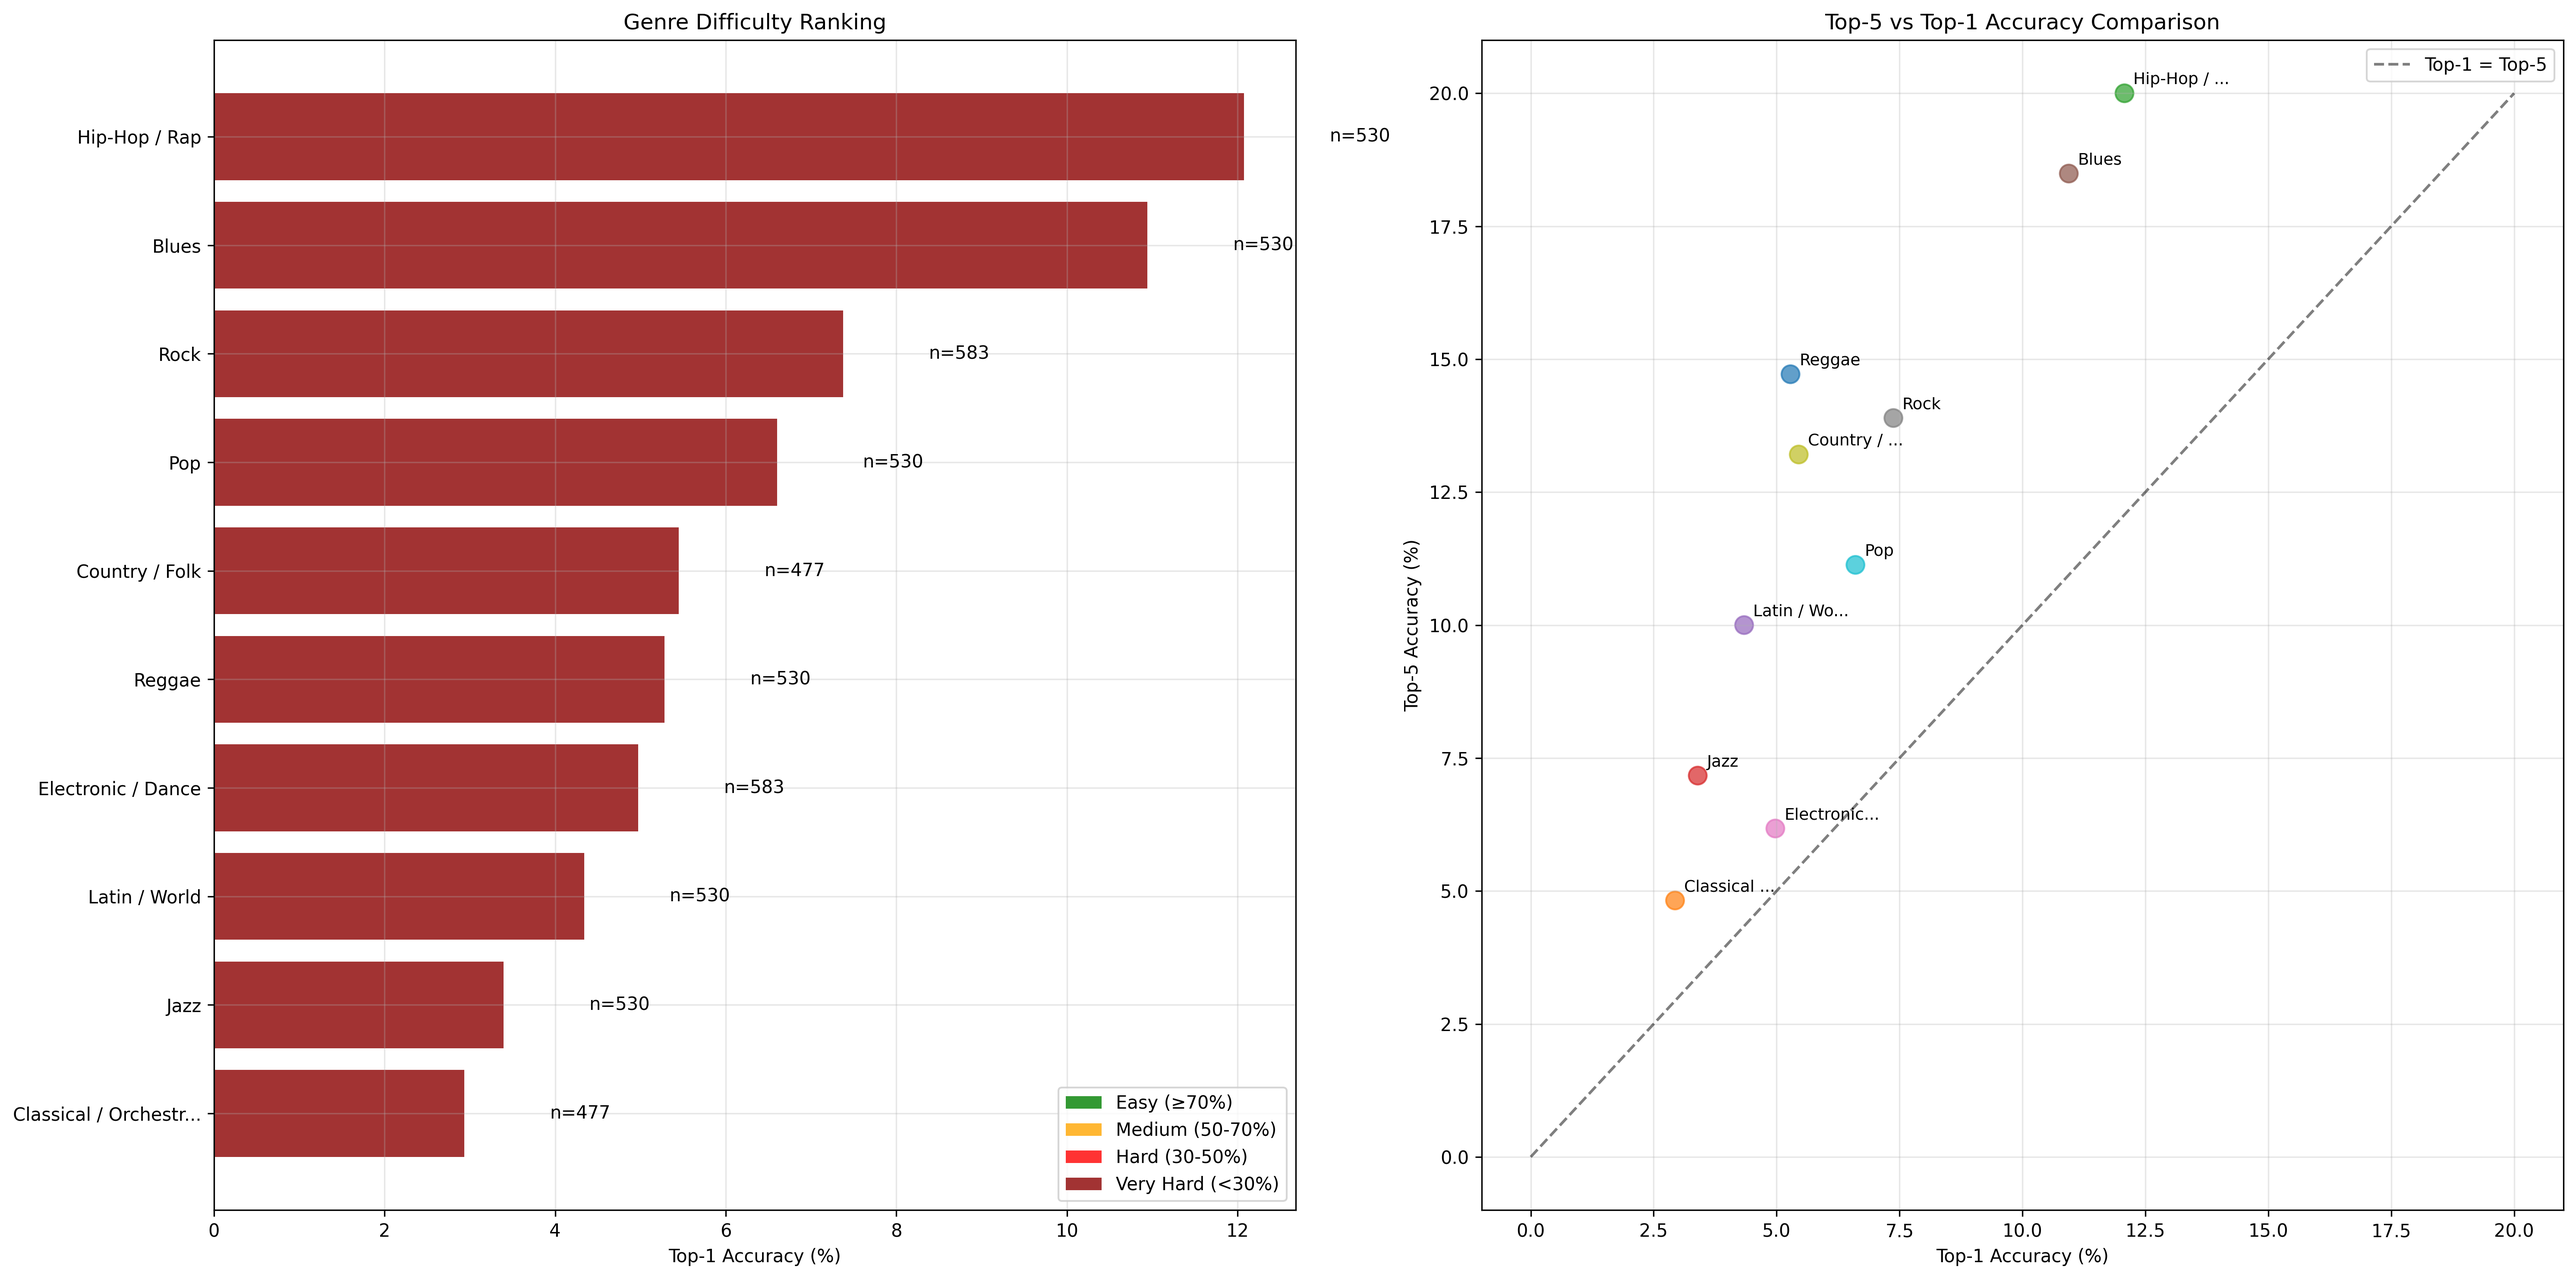
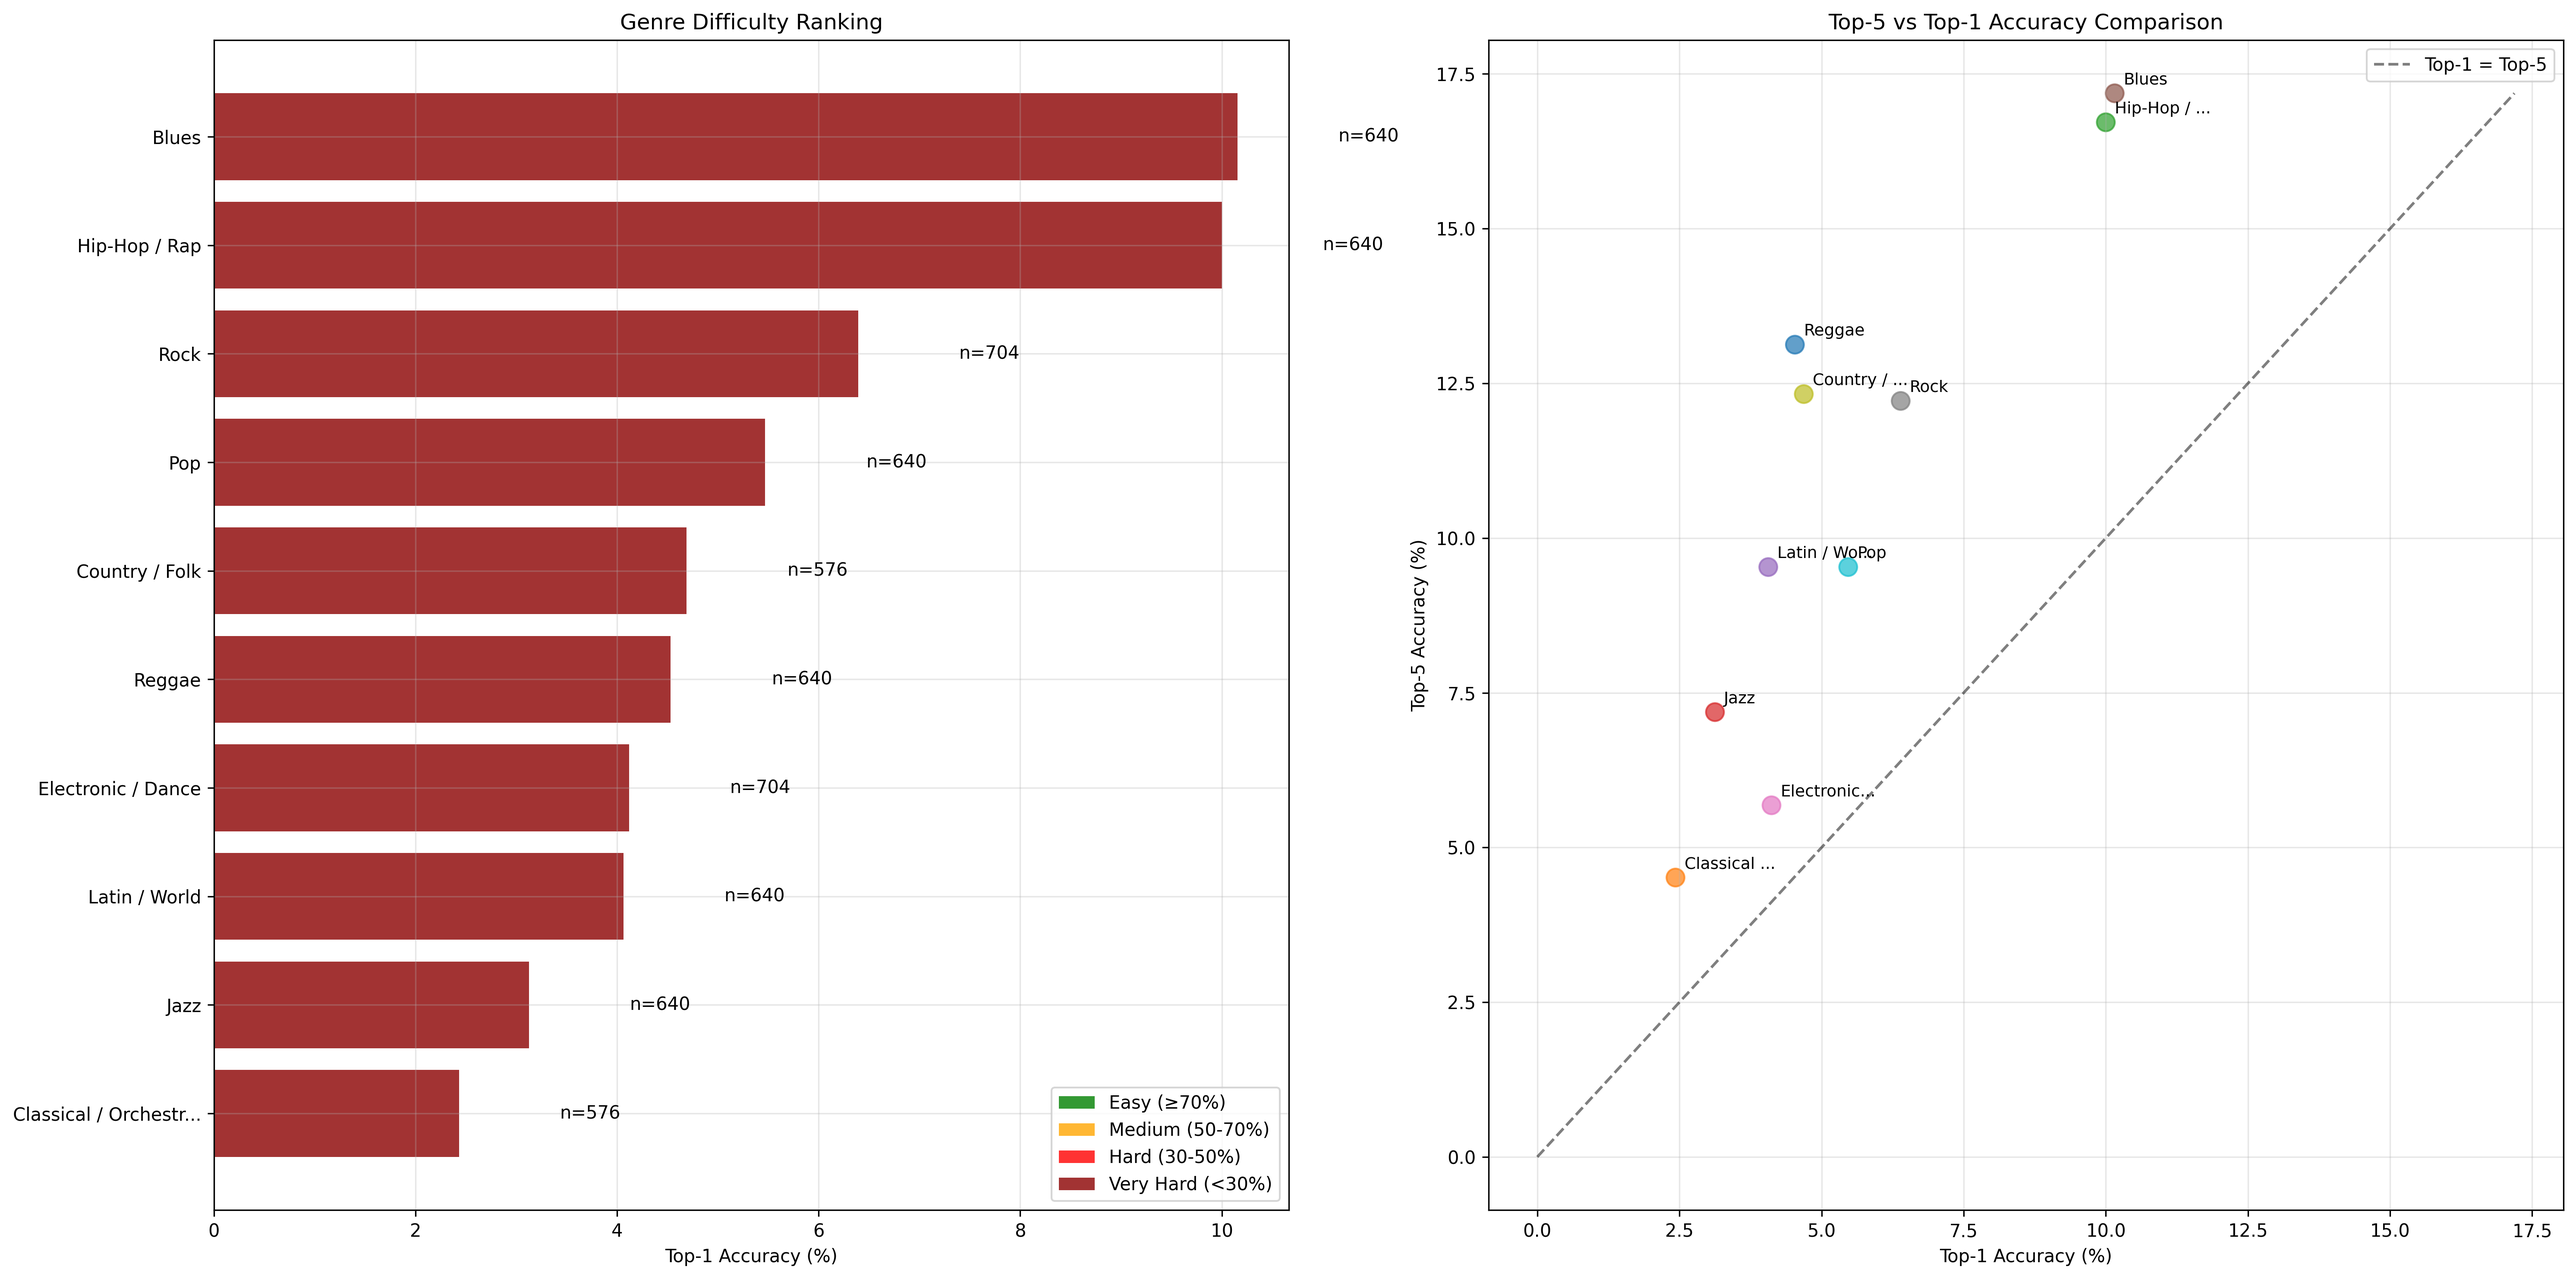
completed plots of the youtube testing

diff --git a/scripts/generate_plots.py b/scripts/generate_plots.py
@@ -790,7 +790,7 @@ class ResultsAnalyzer:
 
 def main():    
     # Choose which dataset to analyze: 'youtube', 'small', or 'both'
-    dataset = 'both'  # Change this to 'small' or 'both' as needed
+    dataset = 'youtube'  # Change this to 'small' or 'both' as needed
     
     results_dir = Path("results/")
     output = Path(f"results/plots_{dataset}/")

diff --git a/README.md b/README.md
@@ -36,6 +36,8 @@
     - [Multi-threading Support](#multi-threading-support)
   - [Obtained Results](#obtained-results)
     - [Performance Overview](#performance-overview)
+      - [36 Songs Dataset:](#36-songs-dataset)
+      - [100 Songs Dataset:](#100-songs-dataset)
     - [Findings](#findings)
       - [1. Genre-Dependent Performance](#1-genre-dependent-performance)
       - [2. Feature Extraction Method Comparison](#2-feature-extraction-method-comparison)
@@ -406,16 +408,16 @@ A diverse music dataset with 100 songs across 10 genres:
 
 | Genre | Top-1 Accuracy | Top-5 Accuracy | Sample Count |
 |-------|----------------|----------------|--------------|
-| Hip-Hop / Rap | 12.1% | 20.0% | 530 |
-| Blues | 10.9% | 18.5% | 530 |
-| Rock | 7.4% | 13.9% | 583 |
-| Pop | 6.6% | 11.1% | 530 |
-| Country / Folk | 5.5% | 13.2% | 477 |
-| Reggae | 5.3% | 14.7% | 530 |
-| Electronic / Dance | 5.0% | 6.2% | 583 |
-| Latin / World | 4.3% | 10.0% | 530 |
-| Jazz | 3.4% | 7.2% | 530 |
-| Classical / Orchestral | 2.9% | 4.8% | 477 |
+| Blues | 10.2% | 17.2% | 640 |
+| Hip-Hop / Rap | 10.0% | 16.7% | 640 |
+| Rock | 6.4% | 12.2% | 704 |
+| Pop | 5.5% | 9.5% | 640 |
+| Country / Folk | 4.7% | 12.3% | 576 |
+| Reggae | 4.5% | 13.1% | 640 |
+| Electronic / Dance | 4.1% | 5.7% | 704 |
+| Latin / World | 4.1% | 9.5% | 640 |
+| Jazz | 3.1% | 7.2% | 640 |
+| Classical / Orchestral | 2.4% | 4.5% | 576 |
 
 | Noise | Method | Type | Compressor | Top-1 Accuracy (%) |
 |-------|--------|------|------------|----------------|
@@ -443,10 +445,10 @@ A diverse music dataset with 100 songs across 10 genres:
 | Brown | Maxfreq | Binary | bzip2 | 3.0 |
 | Brown | Maxfreq | Binary | lzma | 1.0 |
 | Brown | Maxfreq | Binary | zstd | 2.0 |
-| Brown | Spectral | Text | gzip | N/A* |
-| Brown | Spectral | Text | bzip2 | N/A* |
-| Brown | Spectral | Text | lzma | N/A* |
-| Brown | Spectral | Text | zstd | N/A* |
+| Brown | Spectral | Text | gzip | 1.0 |
+| Brown | Spectral | Text | bzip2 | 0.0 |
+| Brown | Spectral | Text | lzma | 0.0 |
+| Brown | Spectral | Text | zstd | 2.0 |
 | Brown | Spectral | Binary | gzip | 1.0 |
 | Brown | Spectral | Binary | bzip2 | 2.0 |
 | Brown | Spectral | Binary | lzma | 1.0 |
@@ -459,10 +461,10 @@ A diverse music dataset with 100 songs across 10 genres:
 | Pink | Maxfreq | Binary | bzip2 | 3.0 |
 | Pink | Maxfreq | Binary | lzma | 4.0 |
 | Pink | Maxfreq | Binary | zstd | 5.0 |
-| Pink | Spectral | Text | gzip | N/A* |
-| Pink | Spectral | Text | bzip2 | N/A* |
-| Pink | Spectral | Text | lzma | N/A* |
-| Pink | Spectral | Text | zstd | N/A* |
+| Pink | Spectral | Text | gzip | 1.0 |
+| Pink | Spectral | Text | bzip2 | 0.0 |
+| Pink | Spectral | Text | lzma | 0.0 |
+| Pink | Spectral | Text | zstd | 0.0 |
 | Pink | Spectral | Binary | gzip | 1.0 |
 | Pink | Spectral | Binary | bzip2 | 2.0 |
 | Pink | Spectral | Binary | lzma | 0.0 |
@@ -477,14 +479,12 @@ A diverse music dataset with 100 songs across 10 genres:
 | White | Maxfreq | Binary | zstd | 3.0 |
 | White | Spectral | Text | gzip | 1.0 |
 | White | Spectral | Text | bzip2 | 0.0 |
-| White | Spectral | Text | lzma | N/A* |
-| White | Spectral | Text | zstd | N/A* |
+| White | Spectral | Text | lzma | 0.0 |
+| White | Spectral | Text | zstd | 2.0 |
 | White | Spectral | Binary | gzip | 1.0 |
-| White | Spectral | Binary | bzip2 | 2.0 |
-| White | Spectral | Binary | lzma | N/A* |
+| White | Spectral | Binary | bzip2 | 1.0 |
+| White | Spectral | Binary | lzma | 0.0 |
 | White | Spectral | Binary | zstd | 2.0 |
-
-N/A*: Not available yet (we are running the tests - all completed tomorrow)
 
 ### Findings
 
